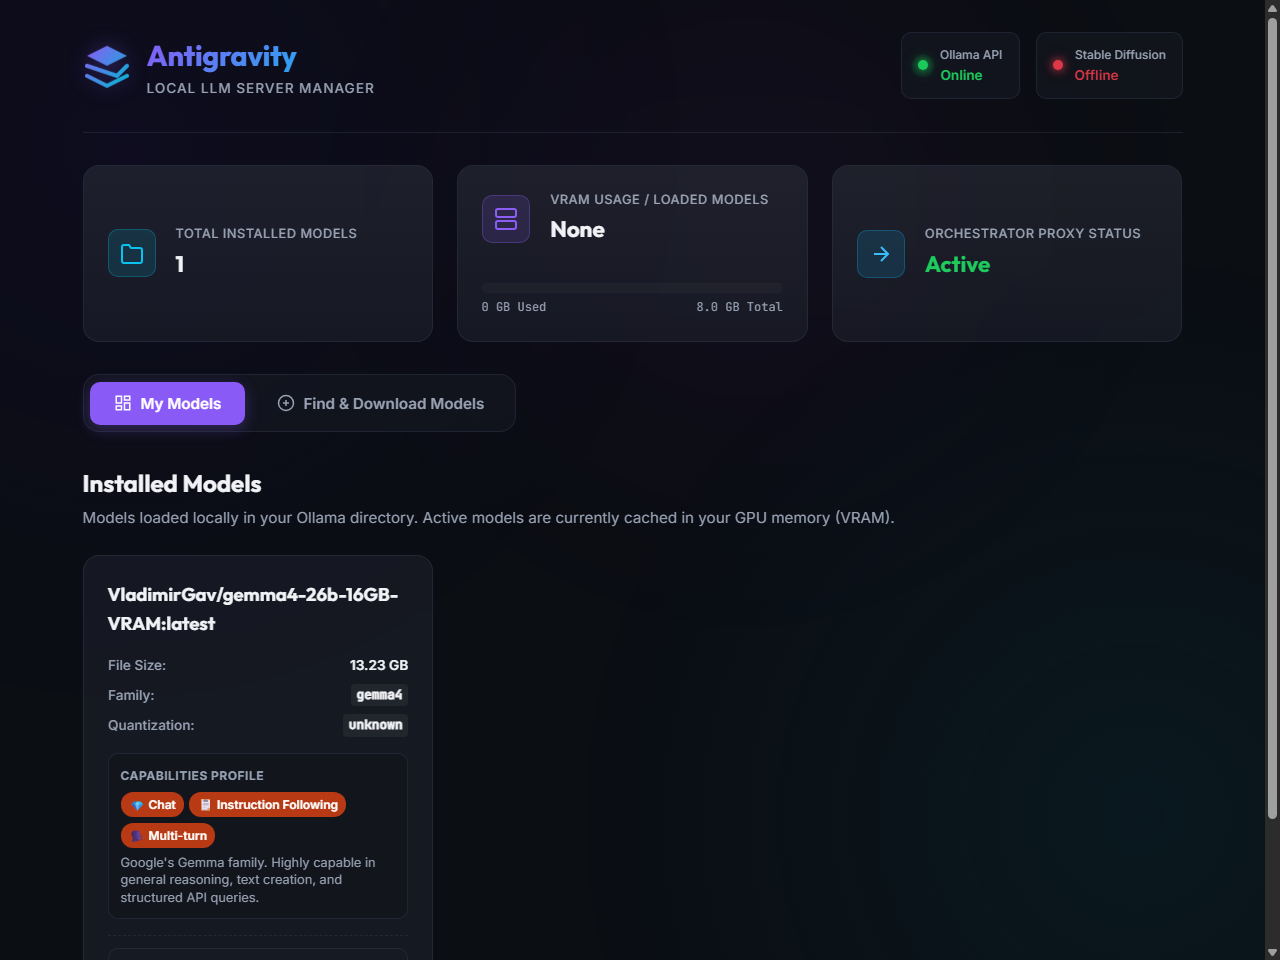
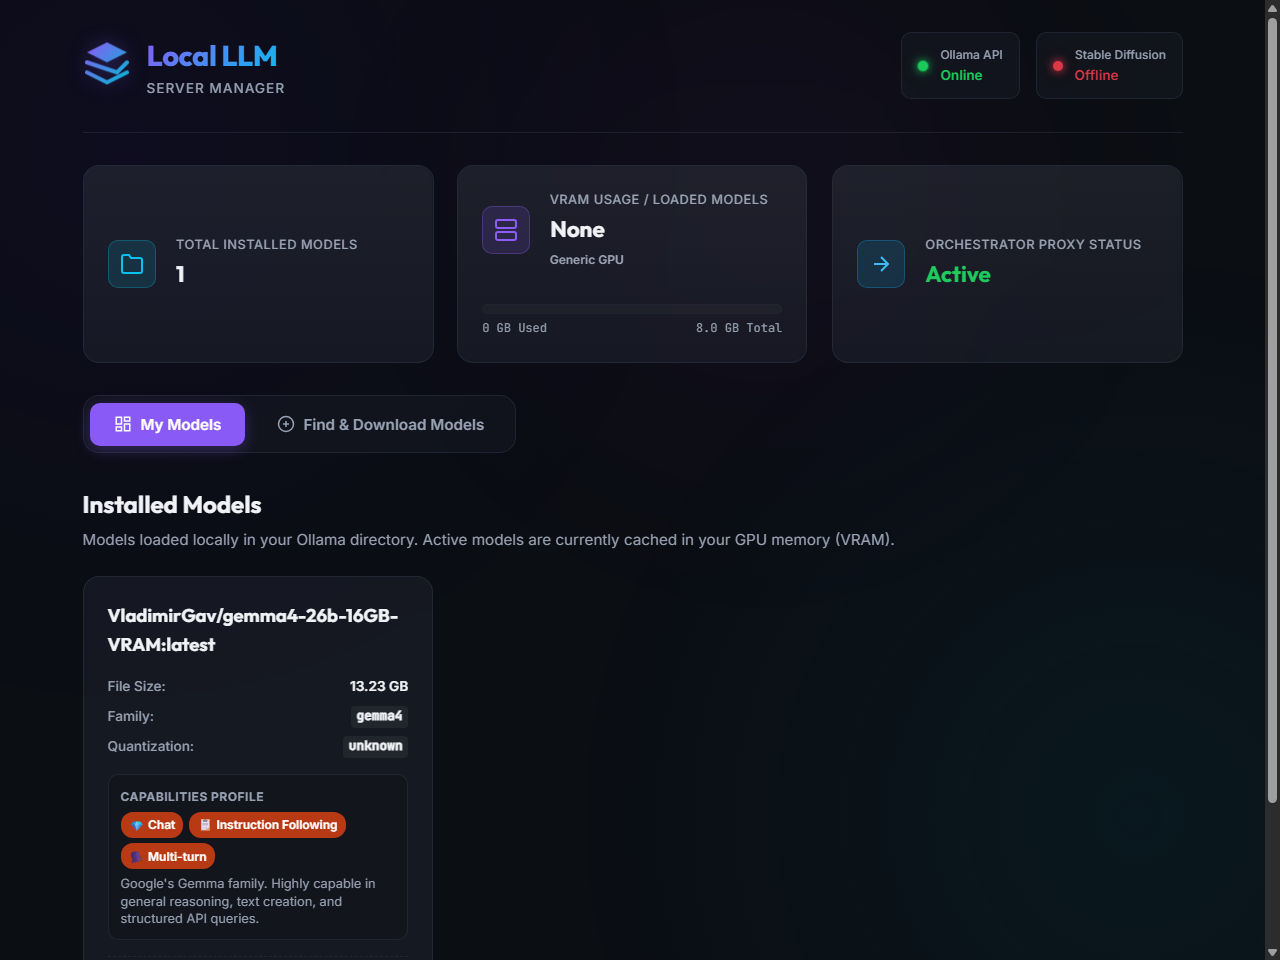
Fix branding header, implement native Registry GPU name and VRAM retrieval, and refresh UI screenshots

diff --git a/wwwroot/index.html b/wwwroot/index.html
@@ -31,8 +31,8 @@
                     </svg>
                 </div>
                 <div>
-                    <h1>Antigravity</h1>
-                    <p class="subtitle">Local LLM Server Manager</p>
+                    <h1>Local LLM</h1>
+                    <p class="subtitle">Server Manager</p>
                 </div>
             </div>
 
@@ -83,6 +83,7 @@
                     <div class="stat-info">
                         <span class="stat-label">VRAM Usage / Loaded Models</span>
                         <span class="stat-value" id="stat-vram-models">None</span>
+                        <span class="stat-gpu-name" id="stat-gpu-name" style="font-size: 0.75rem; color: var(--text-muted); font-weight: 600; margin-top: 2px;">Detecting GPU...</span>
                     </div>
                     <button class="action-btn unload-all-btn" id="btn-unload-all" style="display:none;">
                         Unload VRAM

diff --git a/wwwroot/app.js b/wwwroot/app.js
@@ -92,6 +92,7 @@ const ollamaHealthEl = /** @type {HTMLElement} */ (document.getElementById('olla
 const forgeHealthEl = /** @type {HTMLElement} */ (document.getElementById('forge-health'));
 const statTotalModelsEl = /** @type {HTMLElement} */ (document.getElementById('stat-total-models'));
 const statVramModelsEl = /** @type {HTMLElement} */ (document.getElementById('stat-vram-models'));
+const statGpuNameEl = /** @type {HTMLElement} */ (document.getElementById('stat-gpu-name'));
 const btnUnloadAll = /** @type {HTMLButtonElement} */ (document.getElementById('btn-unload-all'));
 const installedModelsGrid = /** @type {HTMLElement} */ (document.getElementById('installed-models-grid'));
 
@@ -323,6 +324,9 @@ async function detectGpuVram() {
             if (data && data.totalVramBytes > 0) {
                 gpuTotalVram = data.totalVramBytes;
                 vramLabelTotal.textContent = `${(gpuTotalVram / (1024 * 1024 * 1024)).toFixed(1)} GB Total`;
+                if (statGpuNameEl && data.gpuName) {
+                    statGpuNameEl.textContent = data.gpuName;
+                }
             }
         }
     } catch (err) {

diff --git a/Program.cs b/Program.cs
@@ -100,21 +100,61 @@ app.MapGet("/api/hf/model", async (string repoId, HttpClient httpClient) =>
     }
 });
 
-// GPU VRAM retrieval endpoint (Native WMI)
+// GPU details retrieval endpoint (Native Registry)
 app.MapGet("/api/gpu/vram", () =>
 {
+    string gpuName = "Generic GPU";
     long vramBytes = 8L * 1024 * 1024 * 1024; // Default to 8GB
+    
     try
     {
         if (OperatingSystem.IsWindows())
         {
-            using var searcher = new System.Management.ManagementObjectSearcher("SELECT AdapterRAM FROM Win32_VideoController");
-            foreach (System.Management.ManagementObject obj in searcher.Get())
+            const string regPath = @"SYSTEM\CurrentControlSet\Control\Class\{4d36e968-e325-11ce-bfc1-08002be10318}";
+            using var baseKey = Microsoft.Win32.Registry.LocalMachine.OpenSubKey(regPath);
+            if (baseKey != null)
             {
-                var ramStr = obj["AdapterRAM"]?.ToString();
-                if (long.TryParse(ramStr, out long ramBytes) && ramBytes > 0)
+                foreach (var subKeyName in baseKey.GetSubKeyNames())
                 {
-                    vramBytes = Math.Max(vramBytes, ramBytes);
+                    if (subKeyName.Length == 4 && int.TryParse(subKeyName, out _))
+                    {
+                        using var subKey = baseKey.OpenSubKey(subKeyName);
+                        if (subKey != null)
+                        {
+                            var provider = subKey.GetValue("ProviderName")?.ToString() ?? "";
+                            var driverDesc = subKey.GetValue("DriverDesc")?.ToString() ?? "";
+                            
+                            // Skip basic render driver or virtual devices
+                            if (driverDesc.Contains("Basic Render") || provider.Contains("Microsoft") && driverDesc.Contains("Indirect Display"))
+                            {
+                                continue;
+                            }
+
+                            var qwMemSize = subKey.GetValue("HardwareInformation.qwMemorySize");
+                            if (qwMemSize != null)
+                            {
+                                long size = Convert.ToInt64(qwMemSize);
+                                if (size > 0)
+                                {
+                                    vramBytes = size;
+                                    gpuName = driverDesc;
+                                    break;
+                                }
+                            }
+                            
+                            var memorySize = subKey.GetValue("HardwareInformation.MemorySize");
+                            if (memorySize != null)
+                            {
+                                long size = Convert.ToInt64(memorySize);
+                                if (size > 0)
+                                {
+                                    vramBytes = size;
+                                    gpuName = driverDesc;
+                                    break;
+                                }
+                            }
+                        }
+                    }
                 }
             }
         }
@@ -123,7 +163,7 @@ app.MapGet("/api/gpu/vram", () =>
     {
         // Ignore and fallback
     }
-    return Results.Ok(new { totalVramBytes = vramBytes });
+    return Results.Ok(new { totalVramBytes = vramBytes, gpuName });
 });
 
 app.MapReverseProxy();